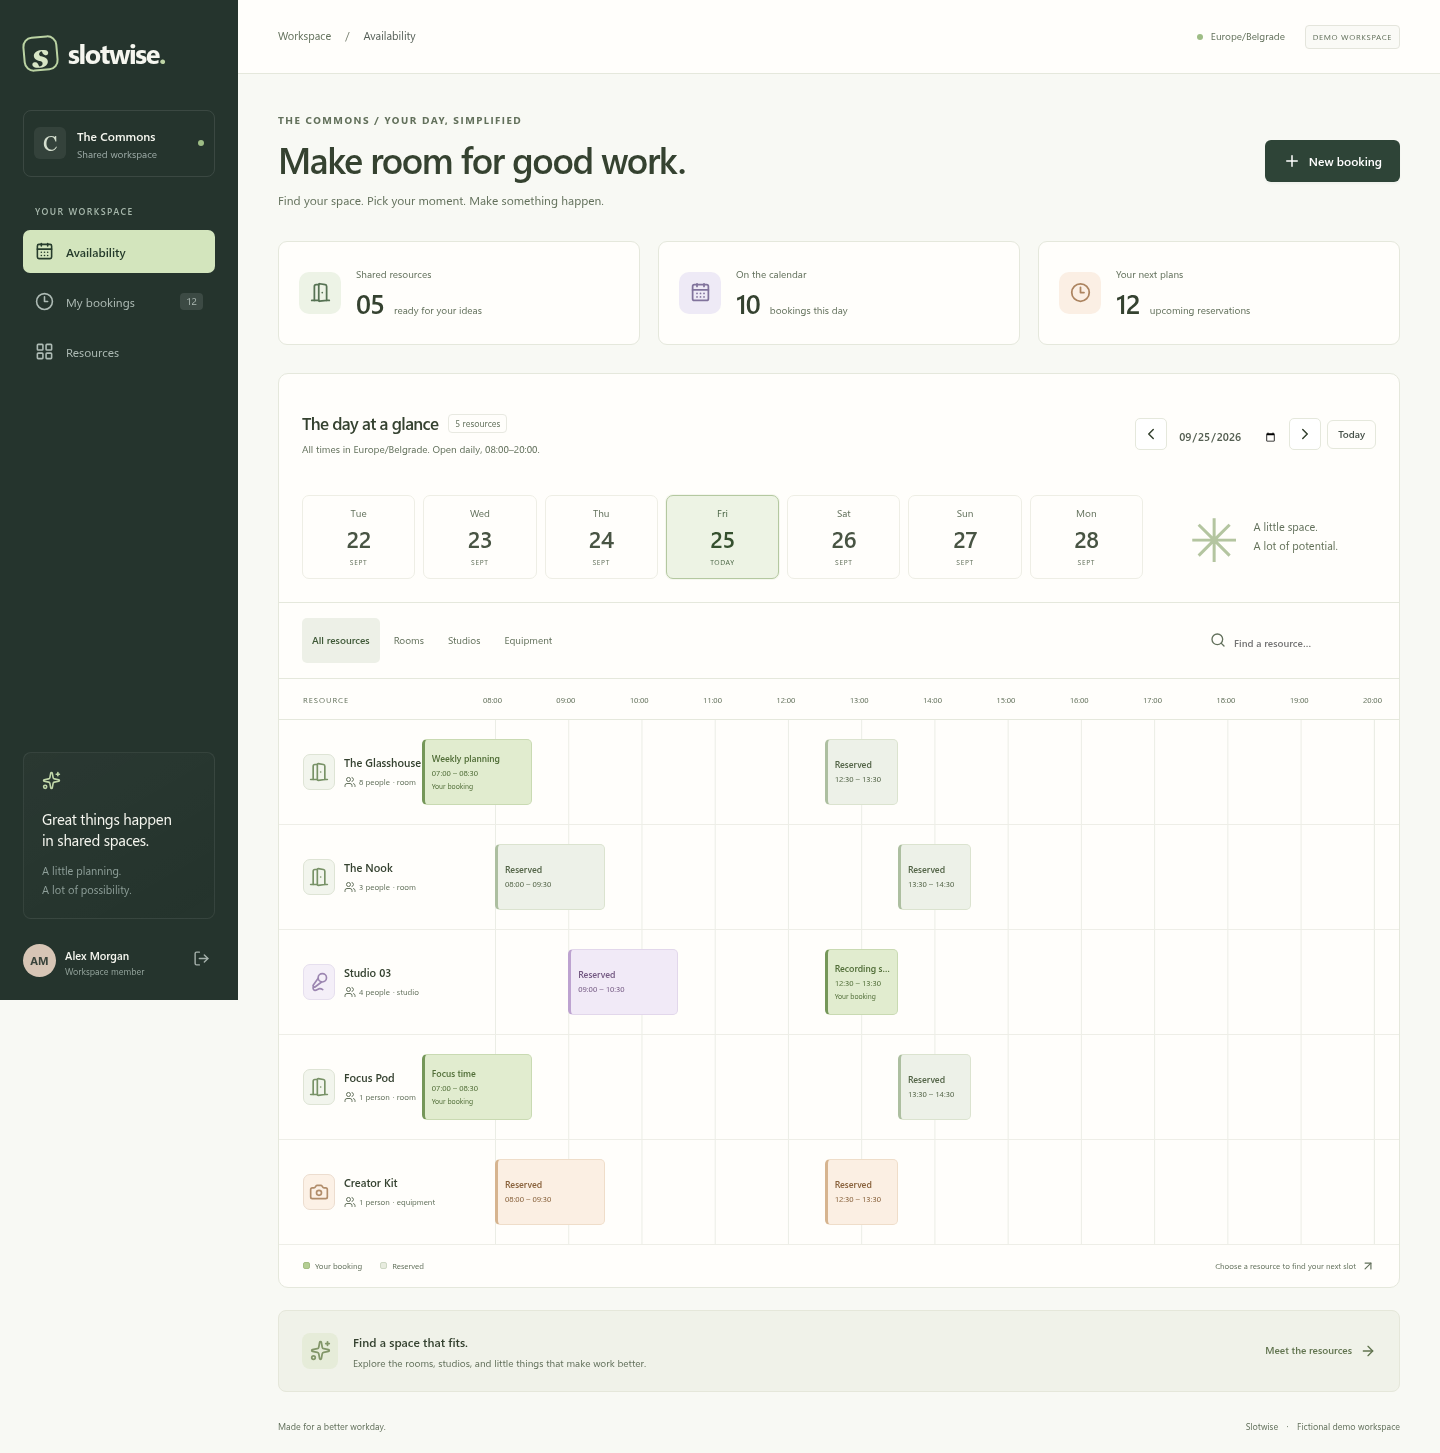
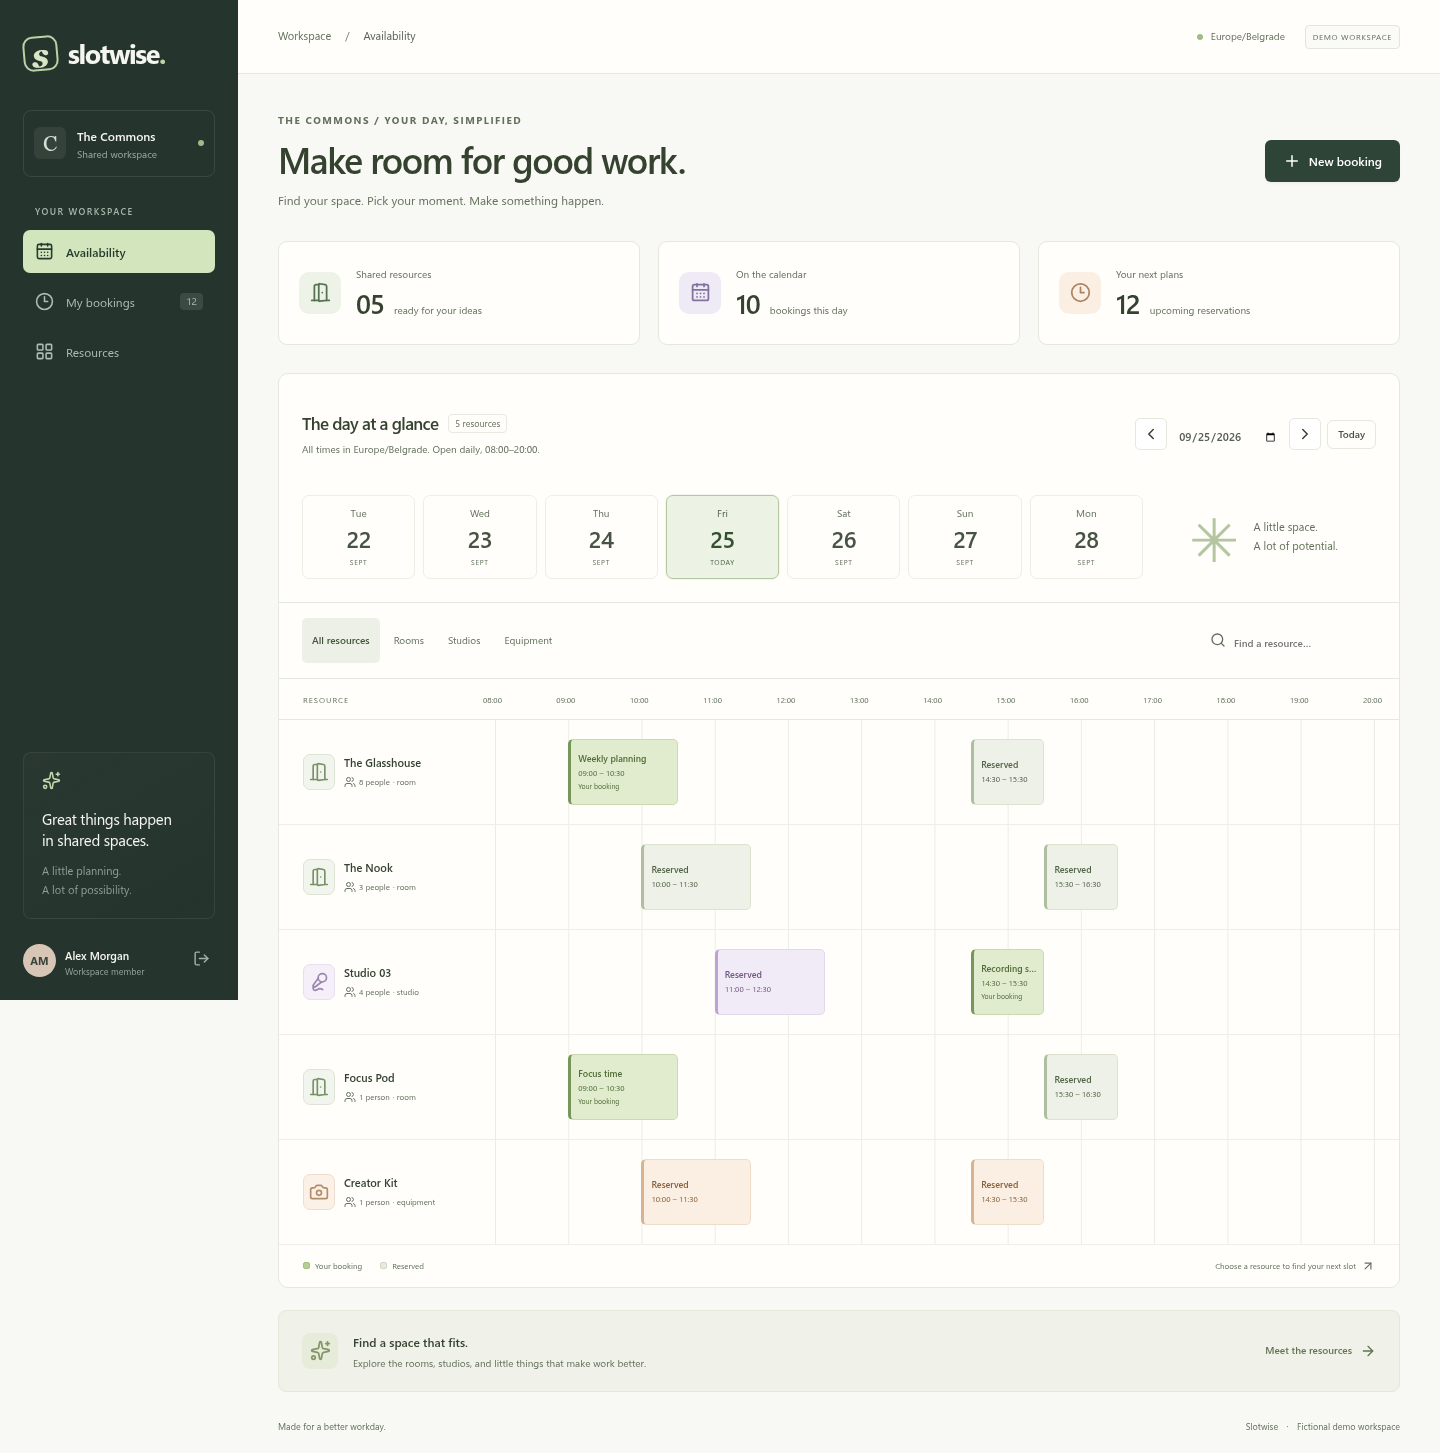
Keep stored reservation times independent of database timezone

diff --git a/frontend/styles.css b/frontend/styles.css
@@ -1927,3 +1927,27 @@ label textarea {
     scroll-behavior: auto !important;
   }
 }
+
+/* User-entered names must not widen a narrow schedule or resource card. */
+.resource-label > span:not(.resource-icon),
+.booking-info {
+  min-width: 0;
+}
+.resource-label strong {
+  overflow: hidden;
+  text-overflow: ellipsis;
+}
+.resource-card h2,
+.resource-card p,
+.booking-info strong,
+.booking-info small,
+.resource-facts span,
+.mobile-slot strong {
+  overflow-wrap: anywhere;
+}
+.mobile-slot {
+  min-width: 0;
+}
+.mobile-slot > span {
+  flex-shrink: 0;
+}

diff --git a/backend/tests/Feature/BookingTest.php b/backend/tests/Feature/BookingTest.php
@@ -34,6 +34,7 @@ class BookingTest extends TestCase
 
         $response->assertCreated()->assertJsonPath('data.starts_at', '2026-09-26T08:00:00+00:00')->assertJsonPath('data.ends_at', '2026-09-26T09:00:00+00:00')->assertJsonPath('data.mine', true);
         $this->assertDatabaseHas('bookings', ['id' => $response->json('data.id'), 'user_id' => $owner->id, 'cancelled_at' => null]);
+        $this->getJson('/api/bookings?date=2026-09-26')->assertOk()->assertJsonPath('data.0.starts_at', '2026-09-26T08:00:00+00:00')->assertJsonPath('data.0.ends_at', '2026-09-26T09:00:00+00:00');
     }
 
     public function test_returns_409_for_overlapping_booking_without_changing_existing_one(): void

diff --git a/backend/config/database.php b/backend/config/database.php
@@ -96,6 +96,7 @@ return [
             'prefix' => '',
             'prefix_indexes' => true,
             'search_path' => 'public',
+            'timezone' => 'UTC',
             'sslmode' => env('DB_SSLMODE', 'prefer'),
         ],
 
